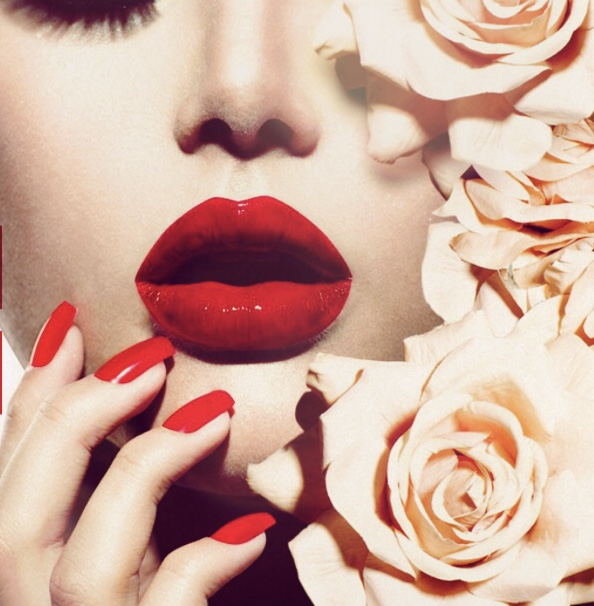
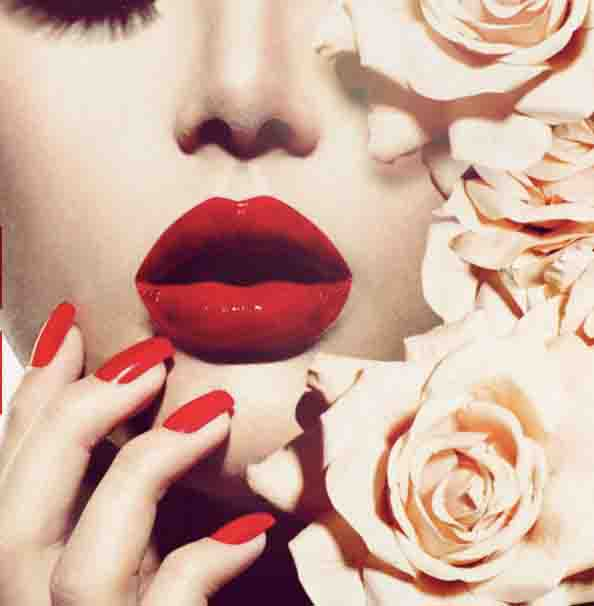
nnew pic

diff --git a/themes/index.html b/themes/index.html
@@ -25,7 +25,7 @@
 <body>
 
     <div class="container">
-    <div class="image" style="background-image: url(theme3.jpg)"></div>
+    <div class="image" style="background-image: url(theme3c.jpg)"></div>
     <div class="content">
       <h1><a href="https://youtu.be/3FW9cBDUnJQ" target="_blank">
         CLASSIC
